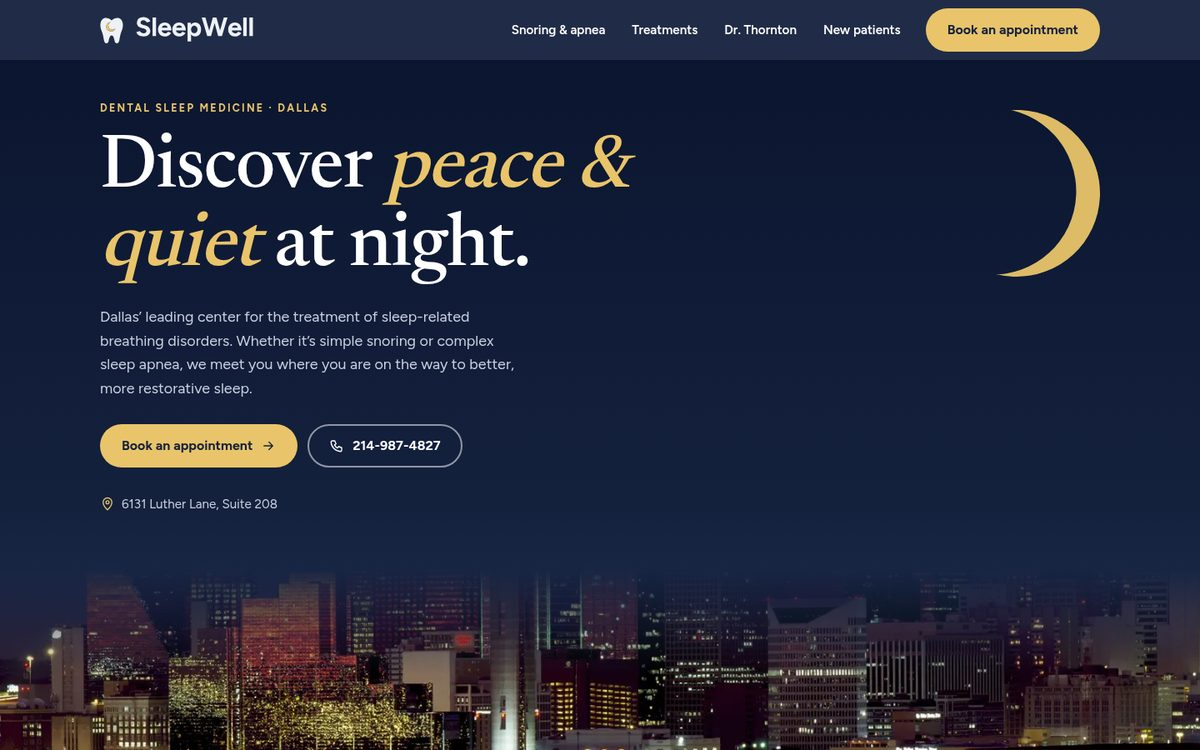
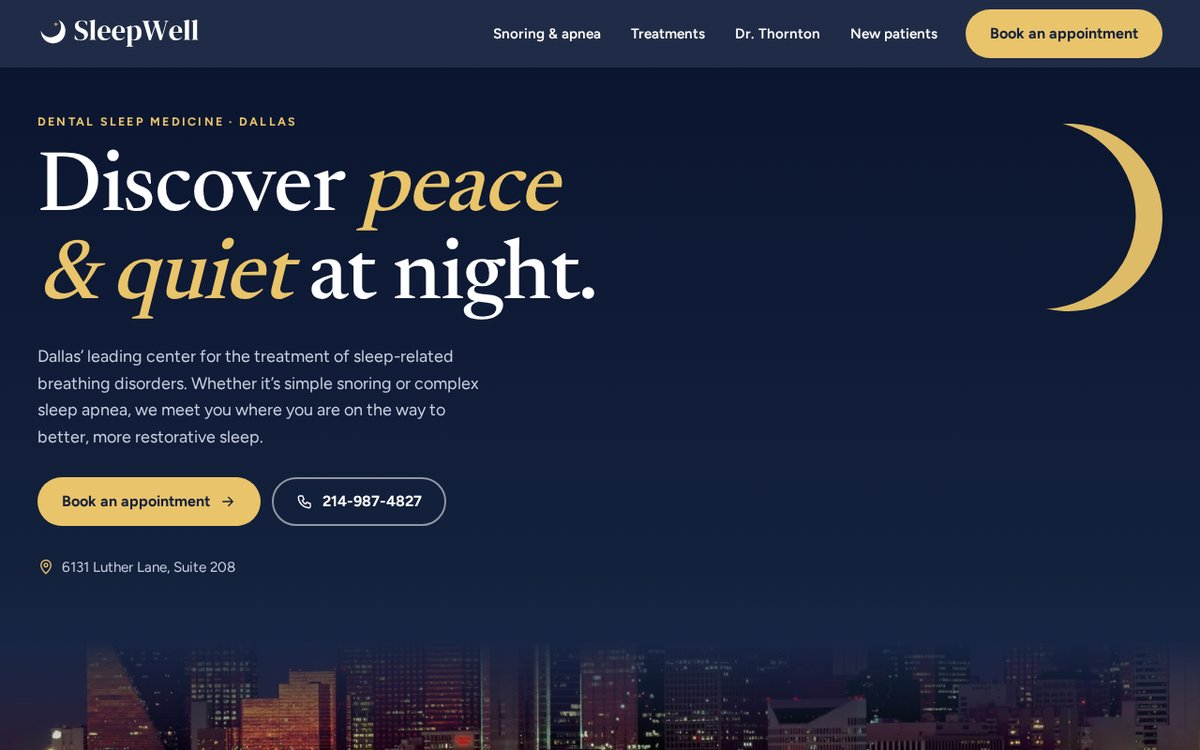
Batch index: refresh SleepWell card shot with B2 header

diff --git a/dallas-2026-10-29/index.html b/dallas-2026-10-29/index.html
@@ -33,7 +33,7 @@ h1{font-family:'Instrument Serif',serif;font-weight:400;font-size:clamp(3rem,7vw
 <div class="lk"><a class="b1" href="el-paraiso/index.html">Open live site →</a><a class="b2" href="el-paraiso/original-logo/index.html">Original-logo version</a><a class="b2" href="el-paraiso/logo/el-paraiso-logo-kit.zip?v=r1">Logo kit</a></div></div></article><article class="c"><a class="sh" href="sherbi-stone/index.html"><img src="_shots/sherbi-stone.jpg?v=r1" alt="Sherbi Stone homepage" loading="lazy"></a>
 <div class="lg"><a href="sherbi-stone/logo/sherbi-stone-logo-primary.png?v=r1" target="_blank"><img src="sherbi-stone/logo/sherbi-stone-logo-primary.png?v=r1" alt="Sherbi Stone new logo"></a><a class="dk" href="sherbi-stone/logo/sherbi-stone-logo-reversed.png?v=r1" target="_blank"><img src="sherbi-stone/logo/sherbi-stone-logo-reversed.png?v=r1" alt="Sherbi Stone logo reversed"></a></div>
 <div class="bd"><span class="n">08</span><span class="cat">Quartz Slabs, Cabinets, Sinks &amp; Tile in Dallas</span><h3>Sherbi Stone</h3><p>Quartz slab showroom on Crown Rd in Dallas with Calacatta, Taj Mahal and Carrara slabs, nine cabinet styles, Karran sinks and Glazzio tile.</p><div class="pg">Pages: <a href="sherbi-stone/index.html">index</a><a href="sherbi-stone/privacy.html">privacy</a></div>
-<div class="lk"><a class="b1" href="sherbi-stone/index.html">Open live site →</a><a class="b2" href="sherbi-stone/original-logo/index.html">Original-logo version</a><a class="b2" href="sherbi-stone/logo/sherbi-stone-logo-kit.zip?v=r1">Logo kit</a></div></div></article><article class="c"><a class="sh" href="sleepwell-solutions/index.html"><img src="_shots/sleepwell-solutions.jpg?v=r1" alt="SleepWell Solutions homepage" loading="lazy"></a>
+<div class="lk"><a class="b1" href="sherbi-stone/index.html">Open live site →</a><a class="b2" href="sherbi-stone/original-logo/index.html">Original-logo version</a><a class="b2" href="sherbi-stone/logo/sherbi-stone-logo-kit.zip?v=r1">Logo kit</a></div></div></article><article class="c"><a class="sh" href="sleepwell-solutions/index.html"><img src="_shots/sleepwell-solutions.jpg?v=b3" alt="SleepWell Solutions homepage" loading="lazy"></a>
 <div class="lg"><a href="sleepwell-solutions/logo/sleepwell-solutions-logo-primary.png?v=r1" target="_blank"><img src="sleepwell-solutions/logo/sleepwell-solutions-logo-primary.png?v=r1" alt="SleepWell Solutions new logo"></a><a class="dk" href="sleepwell-solutions/logo/sleepwell-solutions-logo-reversed.png?v=r1" target="_blank"><img src="sleepwell-solutions/logo/sleepwell-solutions-logo-reversed.png?v=r1" alt="SleepWell Solutions logo reversed"></a></div>
 <div class="bd"><span class="n">09</span><span class="cat">Snoring &amp; Sleep Apnea Treatment in Dallas</span><h3>SleepWell Solutions</h3><p>Dallas’ leading center for treating snoring and sleep apnea. Dr. Keith Thornton offers custom TAP oral appliances, myTAP and the myTAP PAP Nasal Pillow Mask.</p><div class="pg">Pages: <a href="sleepwell-solutions/index.html">index</a><a href="sleepwell-solutions/privacy.html">privacy</a></div>
 <div class="lk"><a class="b1" href="sleepwell-solutions/index.html">Open live site →</a><a class="b2" href="sleepwell-solutions/original-logo/index.html">Original-logo version</a><a class="b2" href="sleepwell-solutions/logo/sleepwell-solutions-logo-kit.zip?v=r1">Logo kit</a></div></div></article><article class="c"><a class="sh" href="kaycee-club/index.html"><img src="_shots/kaycee-club.jpg?v=r1" alt="KayCee Club homepage" loading="lazy"></a>
